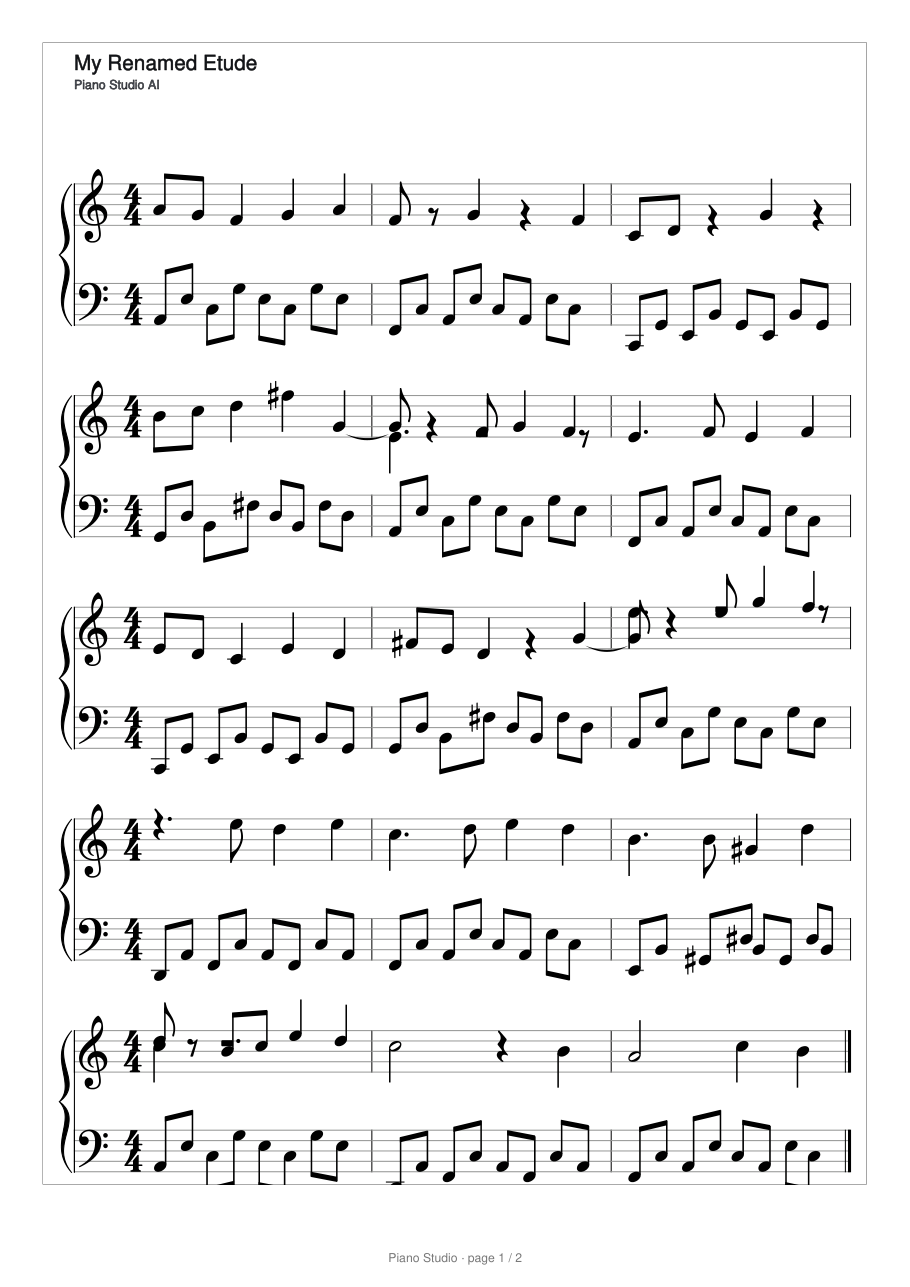
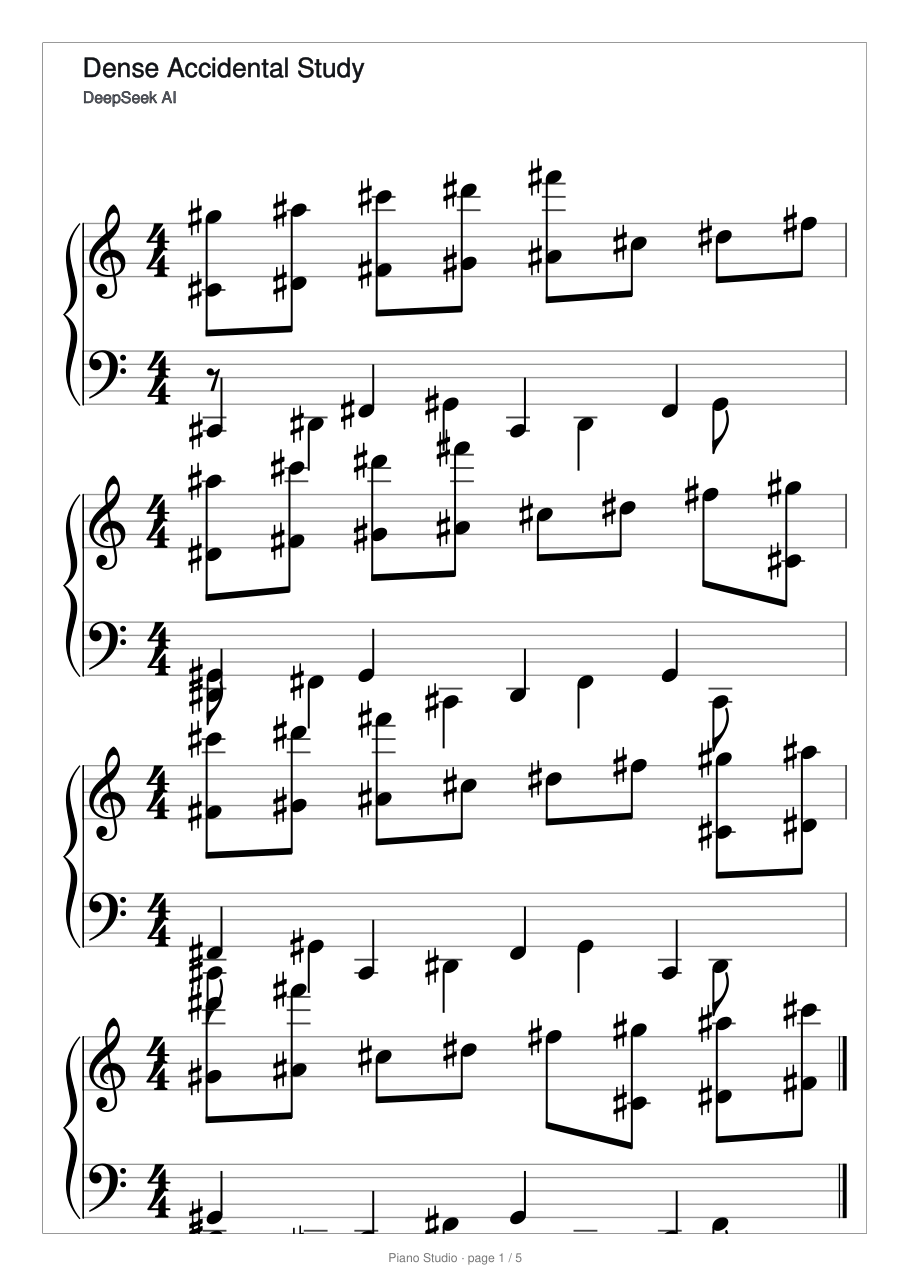
Improve PDF readability for dense/chromatic sheets
- PDF export now uses a roomier layout: two measures per system normally,
  one measure per system for very chromatic or note-dense scores
- Larger effective note scale and four systems per A4 page
- Verified with a deliberately dense 336-note chromatic score: 5 clean pages,
  no note/system cut at page boundaries
- Refreshed signed Android 1.0.3 artifacts/checksums and docs screenshot

Changed region(s): [[0.0615, 0.1243, 0.9538, 0.9635], [0.0923, 0.0311, 0.4, 0.0932]]

diff --git a/src/sheet/renderer.ts b/src/sheet/renderer.ts
@@ -48,6 +48,8 @@ export interface RenderScoreOptions {
   width: number;
   /** Maximum number of measures to render (default 400). */
   maxMeasures?: number;
+  /** Force a number of measures per system (useful for roomy PDFs). */
+  measuresPerSystem?: number;
   /** `screen` relies on CSS for ink colours; `export` uses VexFlow's black ink. */
   theme?: 'screen' | 'export';
   /** Extra vertical space above the systems (title area). */
@@ -403,7 +405,10 @@ export function renderScoreInto(
   const topOffset = Math.max(0, options.topOffset ?? (title || subtitle ? 64 : 0));
 
   const model = buildDisplayModel(score, { maxMeasures: options.maxMeasures });
-  const layout = buildScoreLayout(model.measures, width, { topOffset });
+  const layout = buildScoreLayout(model.measures, width, {
+    topOffset,
+    ...(options.measuresPerSystem ? { measuresPerSystem: options.measuresPerSystem } : {}),
+  });
 
   const renderer = new Renderer(host, Renderer.Backends.SVG);
   renderer.resize(layout.width, layout.height);
@@ -431,7 +436,7 @@ export function renderScoreInto(
 }
 
 /** Renders a score to standalone SVG markup (for downloading the sheet as SVG). */
-export function renderScoreSvg(score: Score, options: { width?: number } = {}): string {
+export function renderScoreSvg(score: Score, options: { width?: number; measuresPerSystem?: number } = {}): string {
   if (typeof document === 'undefined') {
     throw new Error('renderScoreSvg requires a browser DOM');
   }
@@ -442,6 +447,7 @@ export function renderScoreSvg(score: Score, options: { width?: number } = {}): 
   const result = renderScoreInto(host, score, {
     width,
     maxMeasures: 400,
+    measuresPerSystem: options.measuresPerSystem,
     theme: 'export',
     topOffset: title || subtitle ? 64 : 16,
     title,
@@ -483,7 +489,7 @@ export interface ScoreSvgPages {
  */
 export function renderScorePagesSvg(
   score: Score,
-  options: { width?: number; pageHeight?: number } = {},
+  options: { width?: number; pageHeight?: number; measuresPerSystem?: number } = {},
 ): ScoreSvgPages {
   if (typeof document === 'undefined') {
     throw new Error('renderScorePagesSvg requires a browser DOM');
@@ -496,6 +502,7 @@ export function renderScorePagesSvg(
   const result = renderScoreInto(host, score, {
     width,
     maxMeasures: 400,
+    measuresPerSystem: options.measuresPerSystem,
     theme: 'export',
     topOffset: title || subtitle ? 64 : 16,
     title,
@@ -570,6 +577,7 @@ export function renderScorePagesSvg(
     const pageResult = renderScoreInto(pageHost, pageScore, {
       width,
       maxMeasures: 400,
+      measuresPerSystem: options.measuresPerSystem,
       theme: 'export',
       topOffset: title || subtitle ? 64 : 16,
       title,

diff --git a/src/export/pdf.ts b/src/export/pdf.ts
@@ -10,13 +10,45 @@ const A4_WIDTH = 595.28;
 const A4_HEIGHT = 841.89;
 const MARGIN = 28;
 
+function diatonicPitchClasses(fifths: number, mode: 'major' | 'minor'): Set<number> {
+  const tonic = (((fifths * 7) % 12) + 12) % 12;
+  const intervals = mode === 'minor' ? [0, 2, 3, 5, 7, 8, 10] : [0, 2, 4, 5, 7, 9, 11];
+  return new Set(intervals.map((interval) => (tonic + interval) % 12));
+}
+
+/** Very chromatic or note-dense scores get more horizontal room per measure. */
+function isDenseScore(score: Score): boolean {
+  if (!score.notes.length) return false;
+  const meter = score.timeSignatures[0];
+  const barBeats =
+    meter && meter.numerator > 0 && meter.denominator > 0
+      ? (meter.numerator * 4) / meter.denominator
+      : 4;
+  const bars = Math.max(1, Math.ceil(score.lengthBeats / barBeats));
+  const notesPerBar = score.notes.length / bars;
+  const keyPcs = diatonicPitchClasses(score.keySignature.fifths, score.keySignature.mode);
+  let accidentals = 0;
+  for (const note of score.notes) {
+    if (!keyPcs.has(((note.midi % 12) + 12) % 12)) accidentals += 1;
+  }
+  const accidentalRatio = accidentals / score.notes.length;
+  return notesPerBar >= 14 || accidentalRatio >= 0.3;
+}
+
 export interface ScorePdfResult {
   blob: Blob;
   pages: number;
 }
 
 export async function createScorePdf(score: Score): Promise<ScorePdfResult> {
-  const { pages, width, pageHeights } = renderScorePagesSvg(score, { width: 794 });
+  // A roomier layout than the screen: two measures per system normally, one
+  // for very chromatic/dense scores, with a larger effective note size.
+  const dense = isDenseScore(score);
+  const { pages, width, pageHeights } = renderScorePagesSvg(score, {
+    width: 620,
+    pageHeight: 900,
+    measuresPerSystem: dense ? 1 : 2,
+  });
   if (!pages.length) throw new Error('This score has no pages to export.');
 
   const { jsPDF } = await import('jspdf');

diff --git a/README.md b/README.md
@@ -69,7 +69,8 @@ import sheets online**, and practice with two games. It also ships as a native *
 - Import `.mid`, `.midi`, `.musicxml`, `.xml`, `.mxl` (compressed MusicXML) and Piano Studio `.json`,
   or import MIDI directly from the online search.
 - Export the current score as **PDF** (A4 sheet pages), **MusicXML** (sheet), **MIDI**, **JSON**
-  (project) or **SVG** (sheet). PDF pages are paginated between systems and carry page numbers.
+  (project) or **SVG** (sheet). PDF pages are paginated between systems and carry page numbers; very
+  chromatic or note-dense scores automatically switch to one measure per system for clarity.
 - **Rename any imported, recorded, AI or online sheet** with the pencil button in the library; the
   new name is used everywhere, including exports, and persists in the browser.
 - Recording: hit Record, play on the piano, hit Record again — your take is quantized into a score
@@ -131,8 +132,8 @@ Signed release artifacts are included in `release/` (gitignored build output):
 Package      com.pianostudio.app
 Version      1.0.3 (versionCode 4)
 Min SDK      24 (Android 7.0+), target SDK 36
-APK SHA-256  d4017a6be082ae2910a99d740966d9426e0e83bb106847e923cffd3ee96f57cf
-AAB SHA-256  8d9b6e20d1852a530b81b28a4e37dabdc1d6b93987ba17c3ccecbeefee4b50d8
+APK SHA-256  a6f136a5ad05280e9c9fe1f13d6d2ad555031a997716dadf1c8683b4c35ca05e
+AAB SHA-256  f1c622ab5a4f73f6e3a03ac082b13e5f41df46f8f8ffdafa52a2e9249825d07a
 Cert SHA-256 8D:39:AE:54:D9:F8:40:71:B8:3F:0A:6E:B7:9C:56:1C:10:19:F1:A0:8A:9D:FB:93:BF:83:61:AC:7B:12:7A:EA
 ```
 
@@ -228,7 +229,9 @@ use the same mapping.
 - `.mxl` import expects a UTF-8 MusicXML score; `score-timewise` files are rejected with a clear
   message.
 - SVG export renders the notation; MusicXML is the editable/interchange format. PDF export paginates
-  A4 pages between systems and adds page numbers; measure numbers restart on continuation pages.
+  A4 pages between systems, adds page numbers, and uses a roomier adaptive layout (two measures per
+  system normally, one measure per system for very chromatic/note-dense scores). Measure numbers
+  restart on continuation pages.
 - The **local AI composer** is a rules/pattern generative engine (chord progressions, motif
   transforms, seeded randomness). The separate **DeepSeek** dialog (models `deepseek-flash` /
   `deepseek-v4-pro`) sends a free-form text prompt + JSON score schema from your browser directly to
@@ -281,9 +284,10 @@ Playback is a look-ahead scheduler: notes are scheduled into the AudioContext ~0
   and “Composer style” sent “Nocturne in E-flat major” + “Chopin” with no style/key/bar controls. The
   real API was also called from the browser with an invalid key: the request is CORS-readable,
   returns 401, and the UI shows the “API key rejected” message. No real key is stored in the repo.
-- **PDF export** was exercised in headless Chrome: a 189-note AI sheet exported as a 2-page A4 PDF
-  (144 KB). Rendering the PDF with PyMuPDF showed 5 complete systems on page 1 and the final system
-  on page 2, with page numbers and no system cut at a page boundary.
+- **PDF export** was exercised in headless Chrome with a deliberately dense, chromatic 336-note score:
+  the adaptive layout switched to one measure per system and produced 5 readable A4 pages with no
+  notes cut at system/page boundaries. A normal 189-note sheet exported as a 2-page PDF. Rendering
+  the PDFs with PyMuPDF confirmed all systems are complete, with page numbers.
 - **Renaming** was exercised end-to-end: the pencil button renamed a generated sheet to “My Renamed
   Etude”, updated the stage heading and persisted the title in the library.
 - **Online search** was exercised against the live Wikimedia Commons API: “Twinkle, Twinkle, Little
